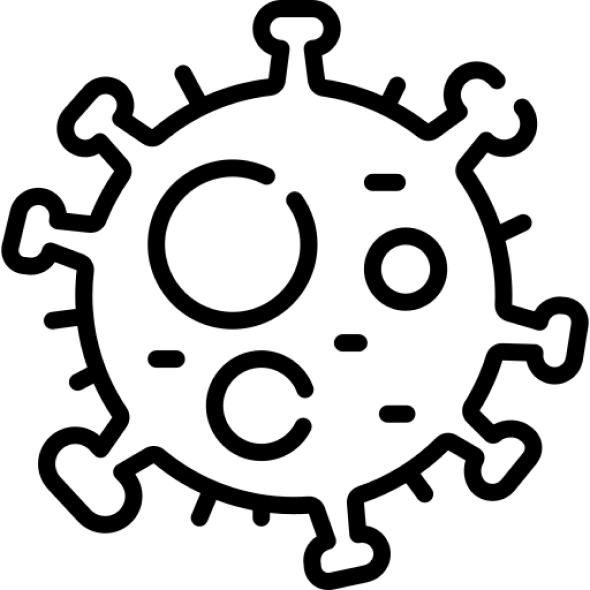
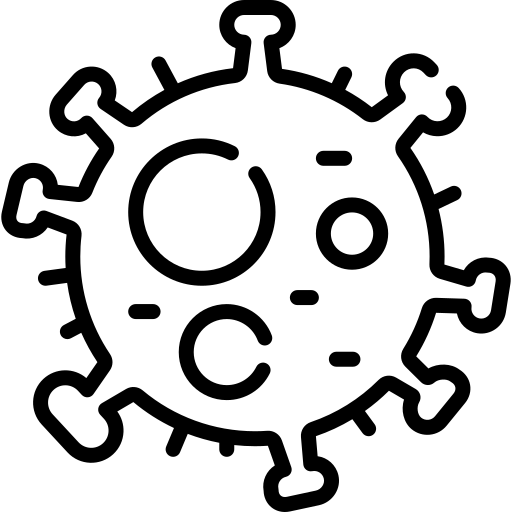
07/12/2024 13:46 ReModif de l'image de virus sur la page cancer du larynx

diff --git a/css/Cancer_Larynx.css b/css/Cancer_Larynx.css
@@ -4,11 +4,13 @@
     padding: 0;
     box-sizing: border-box;
 }
-
-/* Supprime les marges par défaut du body */
 body {
-    margin: 0; /* Pas de marges par défaut */
+    font-family: Arial, sans-serif;
+    line-height: 1.6;
+    margin: 0;
+    padding: 0;
 }
+
 
 /* Style de la barre de navigation */
 .navbar {
@@ -64,39 +66,6 @@ body {
     font-size: 24px;
     cursor: pointer;
 }
-/* Responsive : pour les écrans réduits */
-@media (max-width: 768px) {
-    .containerBouton {
-        display: none; /* Cache les boutons par défaut */
-        flex-direction: column; /* Affiche les boutons verticalement */
-        position: absolute;
-        top: 70px; /* Ajustez en fonction de la hauteur de la navbar */
-        right: 20px;
-        background-color: white;
-        border: 1px solid #ddd;
-        border-radius: 8px;
-        width: 200px;
-        padding: 10px;
-        box-shadow: 0 2px 5px rgba(0, 0, 0, 0.2);
-    }
-
-    .containerBouton.show {
-        display: flex; /* Affiche le menu */
-    }
-
-    .menu-toggle {
-        display: block; /* Affiche le bouton burger */
-    }
-}
-
-
-/* Section Virus */
-body {
-    font-family: Arial, sans-serif;
-    line-height: 1.6;
-    margin: 0;
-    padding: 0;
-}
 
 /* Section principale */
 section.virus {
@@ -108,7 +77,7 @@ section.virus {
     width: 100%; /* Étend la section à toute la largeur de la page */
     background-color: #c4c4c4; /* Gris foncé pour la section */
     border-radius: 0; /* Enlève le rayon de bordure pour la pleine largeur */
-    box-shadow: 0px 4px 10px rgba(0, 0, 0, 0.1);
+    box-shadow: 0 4px 10px rgba(0, 0, 0, 0.1);
 }
 
 /* Texte */
@@ -146,7 +115,7 @@ section.virus {
     width: 100%;
     max-width: 450px;
     border-radius: 10px;
-    box-shadow: 0px 4px 10px rgba(0, 0, 0, 0.1);
+
 }
 
 
@@ -186,7 +155,7 @@ button#VADS {
     border: none;
     border-radius: 10px;
     cursor: pointer;
-    box-shadow: 0px 2px 5px rgba(0, 0, 0, 0.2);
+    box-shadow: 0 2px 5px rgba(0, 0, 0, 0.2);
 }
 
 button#VADS:hover {
@@ -356,5 +325,33 @@ section.cons {
     line-height: 1.6;
     margin: 0 auto; /* Espacement horizontal pour aérer */
 }
+
+/* Responsive : pour les écrans réduits */
+@media (max-width: 768px) {
+    .containerBouton {
+        display: none; /* Cache les boutons par défaut */
+        flex-direction: column; /* Affiche les boutons verticalement */
+        position: absolute;
+        top: 70px; /* Ajustez en fonction de la hauteur de la navbar */
+        right: 20px;
+        background-color: white;
+        border: 1px solid #ddd;
+        border-radius: 8px;
+        width: 200px;
+        padding: 10px;
+        box-shadow: 0 2px 5px rgba(0, 0, 0, 0.2);
+    }
+
+    .containerBouton.show {
+        display: flex; /* Affiche le menu */
+    }
+
+    .menu-toggle {
+        display: block; /* Affiche le bouton burger */
+    }
+}
+
+
+
 
 

diff --git a/pages/Accueil.html b/pages/Accueil.html
@@ -33,6 +33,18 @@
 
 <div id="footer-placeholder"></div>
 
+
+
+
+
+
+
+
+
+
+
+
+
 <script>
     // Charger le fichier footer.html dans le div avec l'id "footer-placeholder"
     fetch("footer.html")
